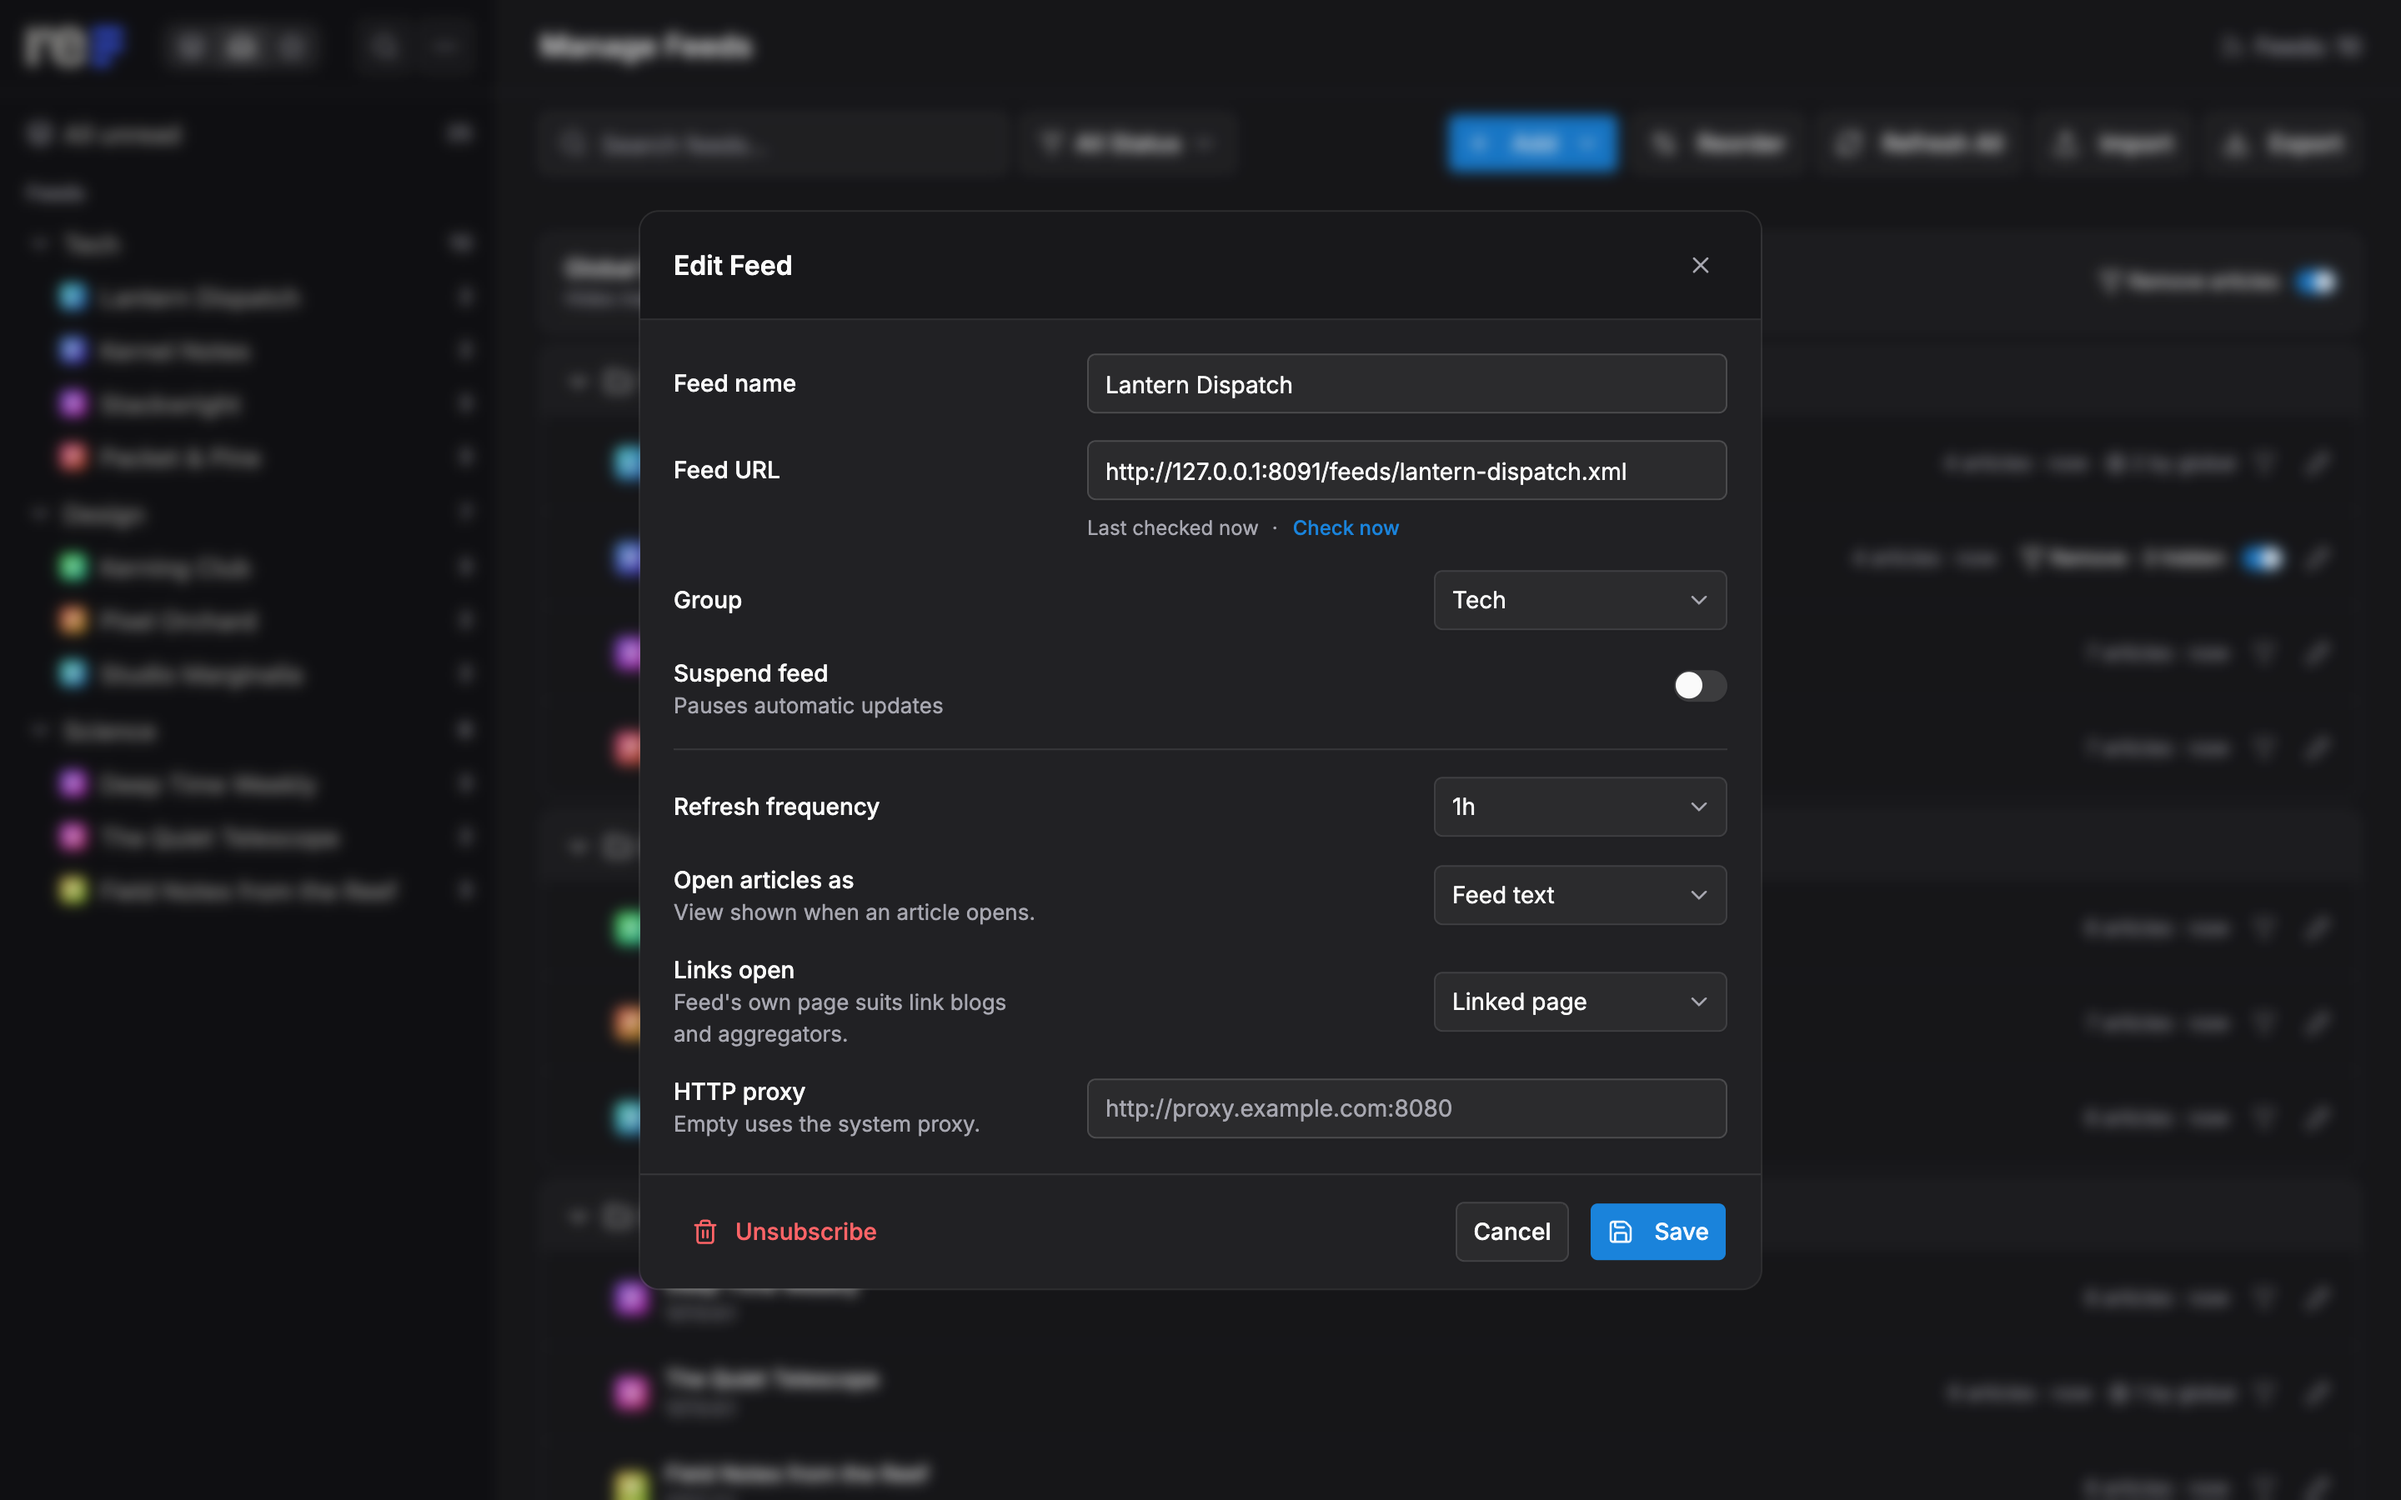
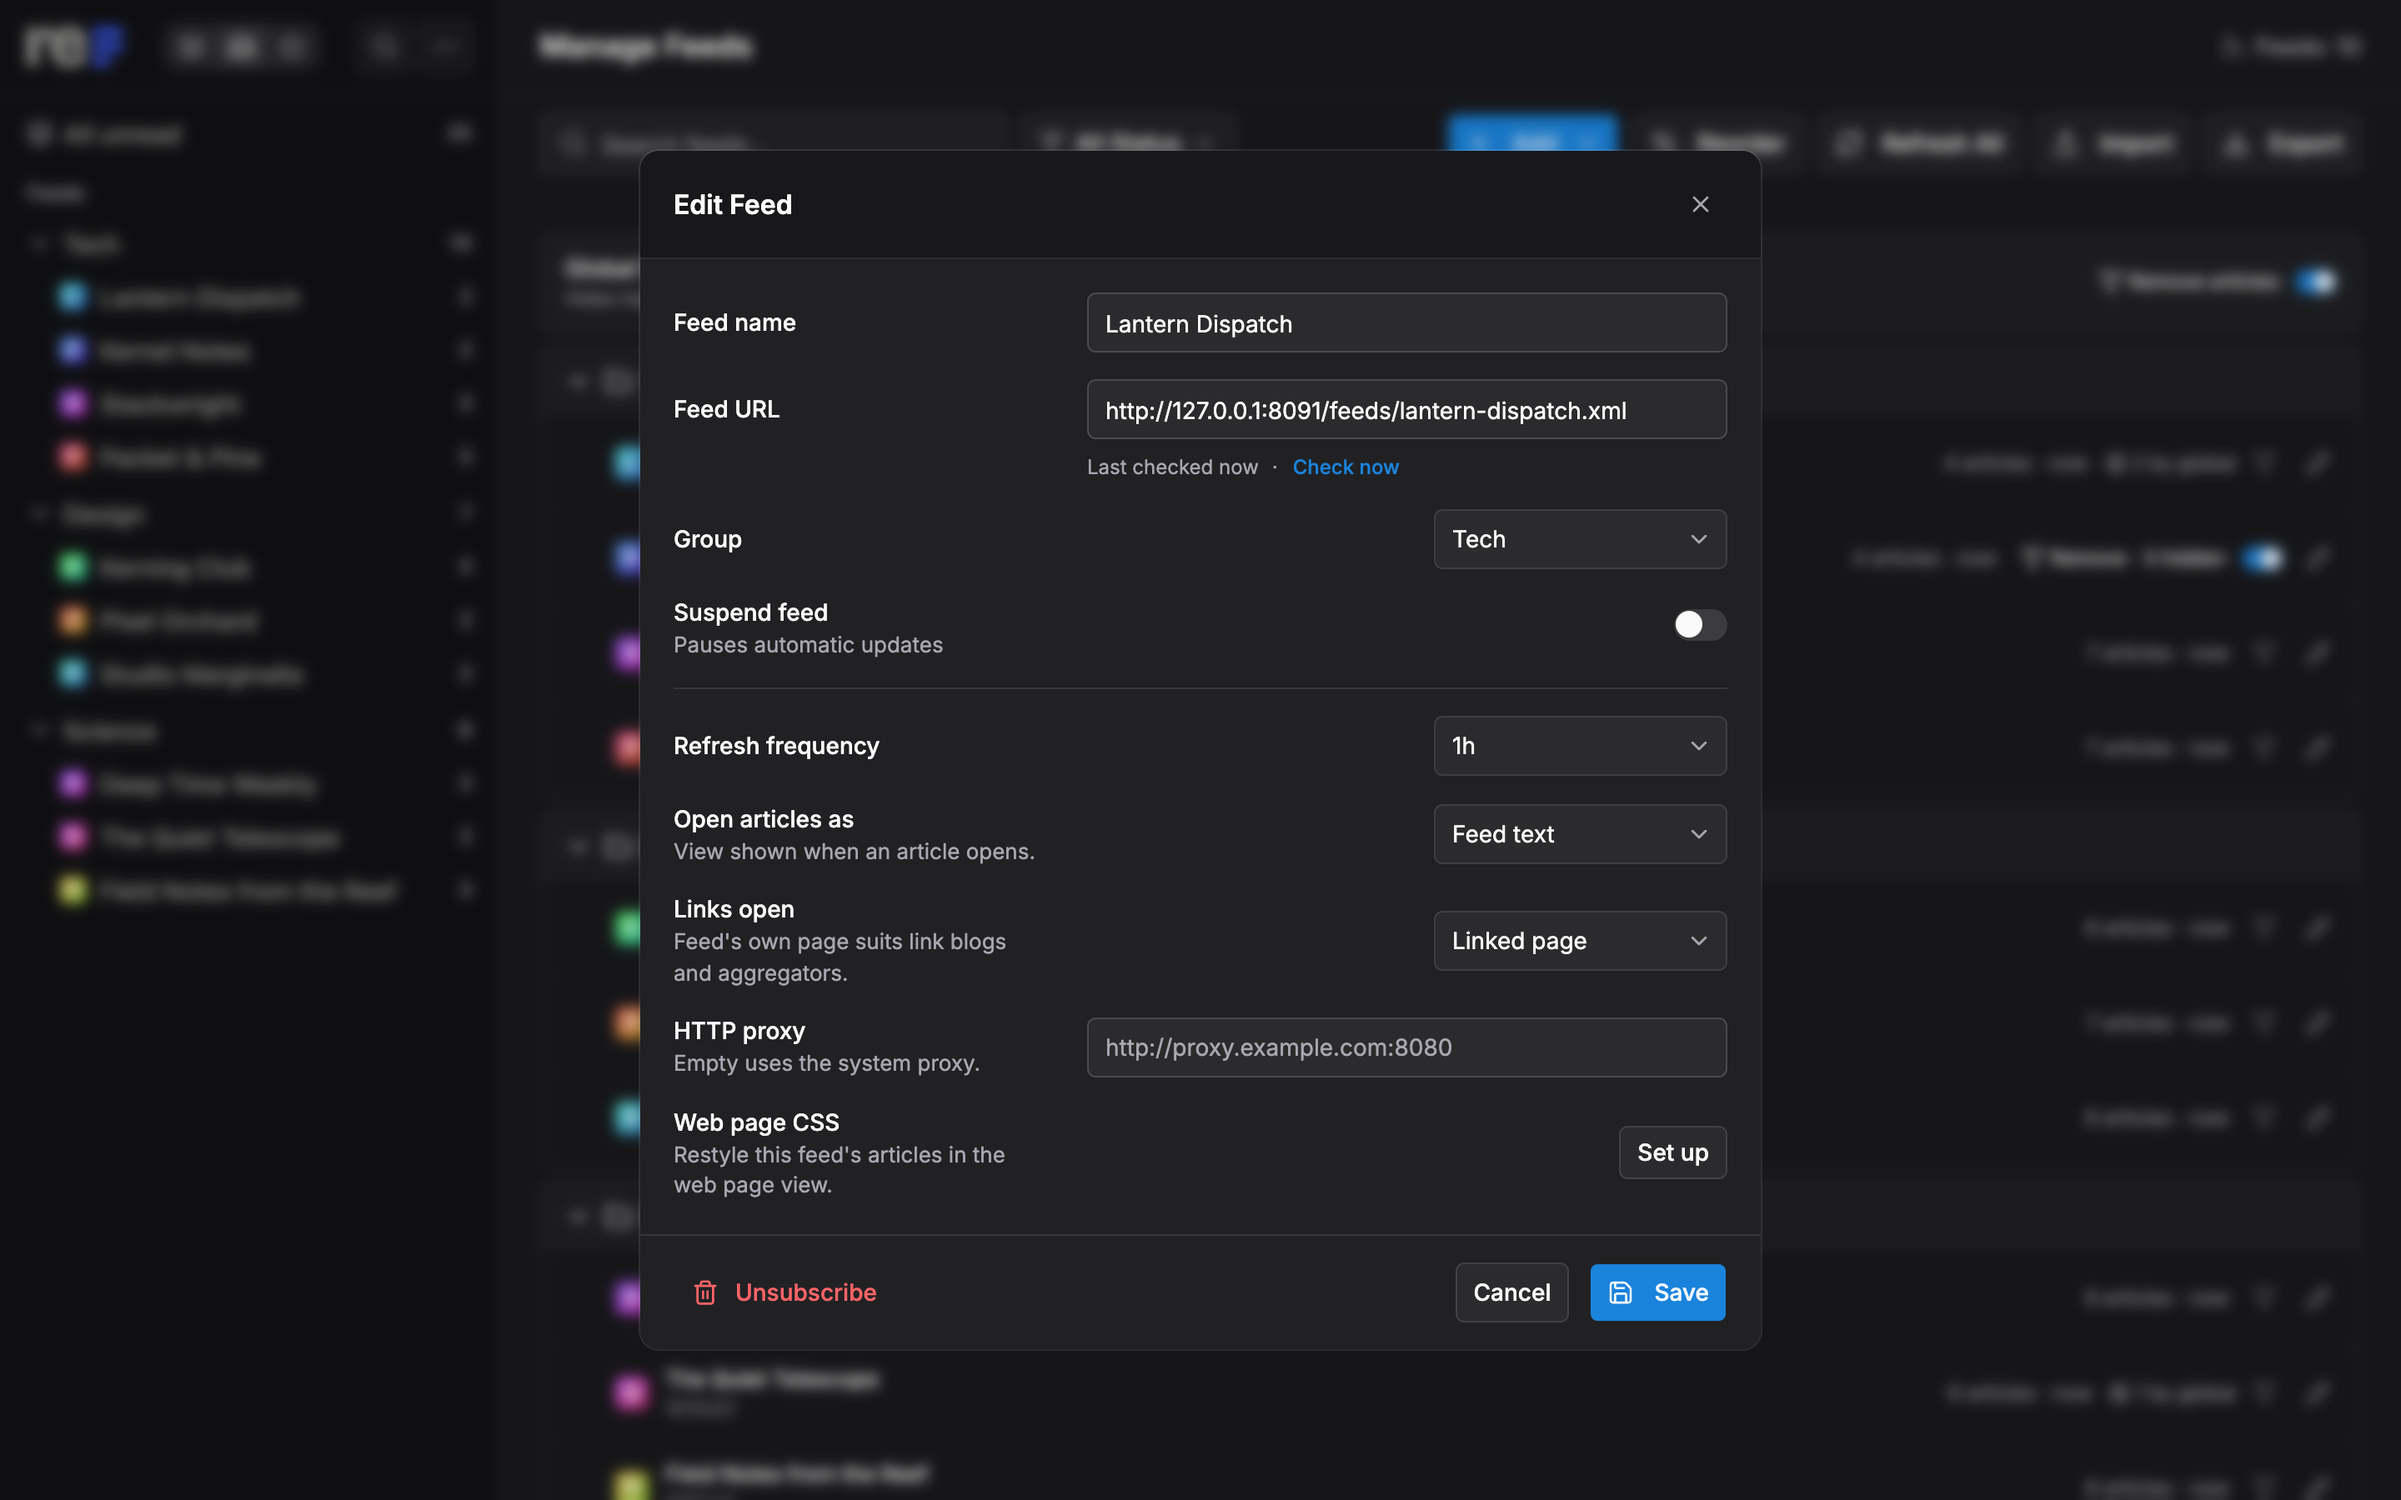
readme: per-feed web page css and its screenshot

diff --git a/README.md b/README.md
@@ -14,7 +14,7 @@ refusion is a web app for reading RSS and Atom feeds on your own server. It is a
 
 ## At a glance
 
-- **Reading:** two layouts (drawer and panes), full article text or the original page on demand, YouTube in the article view
+- **Reading:** two layouts (drawer and panes), full article text or the original page on demand, your own CSS for a feed's pages, YouTube in the article view
 - **New articles:** automatic checks and pull to refresh, with progress per feed
 - **Filters:** hide (or show only) articles per feed or everywhere, with a live preview
 - **Organising:** folders in your own order, mark all as read, OPML import and export
@@ -34,11 +34,17 @@ refusion is a web app for reading RSS and Atom feeds on your own server. It is a
 - **Full article and web page:** press `w` to fetch the whole article from the site, or `shift+w` to show the original page.
   - Per feed, "Open articles as" picks which view an article starts in; turning a view off returns to that default.
   - For link blogs and aggregators, "Links open: Feed's own page" opens the item's page on the feed's site (the post or the discussion) instead of the linked site.
+- **Web page CSS:** restyle a feed's pages in the web page view with your own CSS, for example to hide banners and sidebars or set a calmer font. The editor in the feed's settings shows a live preview of the feed's newest article.
+  - With CSS set, the page is always shown as a copy fetched by the server, so a site that leans heavily on scripts may not work there. Deleting the CSS brings back the original page.
 - **YouTube:** videos play inside the article view.
 - **Text settings:** font and text size in the article view, and relative ("3 hours ago") or absolute dates.
 
 <p align="center">
-  <img src="./assets/screenshots/feed-edit.png" alt="Edit feed dialog with the Open articles as and Links open options" width="100%" />
+  <img src="./assets/screenshots/feed-edit.png" alt="Edit feed dialog with the Open articles as, Links open and Web page CSS options" width="100%" />
+</p>
+
+<p align="center">
+  <img src="./assets/screenshots/feed-css.png" alt="Web page CSS dialog: CSS on the left, a live preview of the cleaned-up article on the right" width="100%" />
 </p>
 
 ### New articles
@@ -96,7 +102,7 @@ refusion is a web app for reading RSS and Atom feeds on your own server. It is a
 Fusion provides the core: feed parsing and discovery, unread tracking, bookmarks, search, keyboard shortcuts, the Fever API and the PWA. refusion adds:
 
 - the Panes layout, full article text, the web page view and YouTube playback
-- per-feed settings for which view articles open in, and for links to the feed's own page
+- per-feed settings for which view articles open in, for links to the feed's own page, and custom CSS for the web page view
 - pull to refresh with progress per feed, and the new-articles pill
 - feed and global filters
 - reorder mode, search excerpts and the text settings
